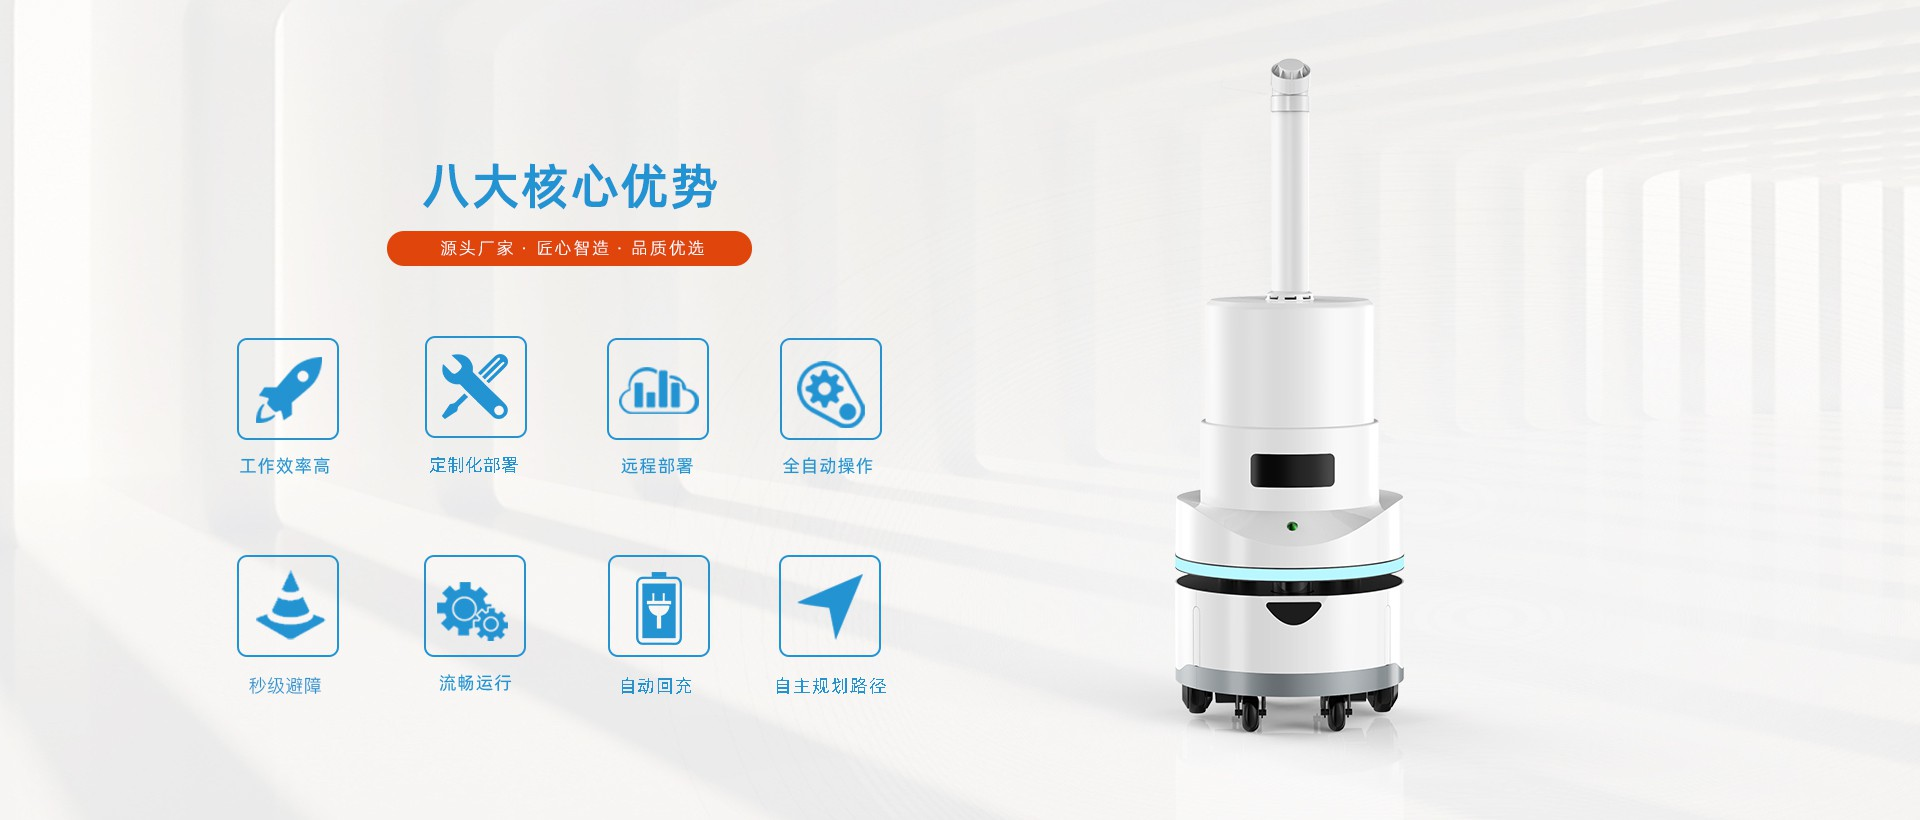
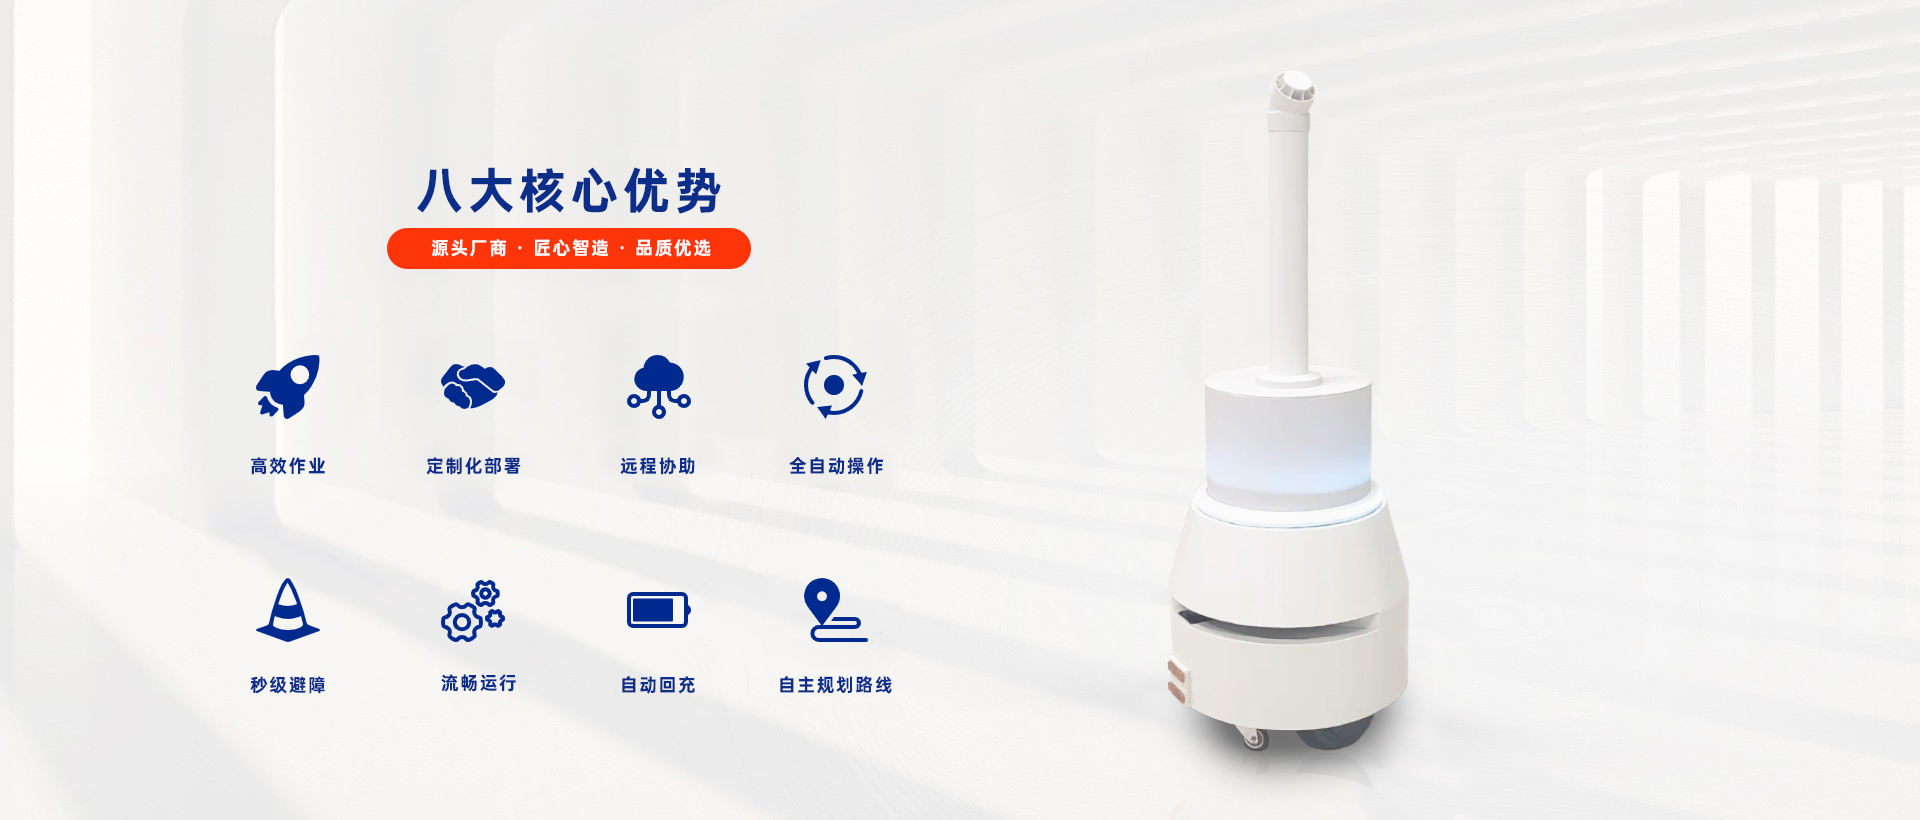
修改消杀机器人内容

diff --git a/product_1.html b/product_1.html
@@ -56,7 +56,7 @@
           <li><a href="/index.html">首页</a></li>
           <li class="menu-has-children"><a href="#about">产品</a>
             <ul>
-              <li><a href="javascript:;">消毒机器人</a></li>
+              <li><a href="javascript:;">消杀机器人</a></li>
             </ul>
           </li>
           <li><a href="/index.html">招商加盟</a></li>
@@ -98,9 +98,9 @@
           <div class="col-lg-5 content"></div>
 
           <div class="col-lg-7 content">
-            <h2>火箭炮—雾化消毒机器人</h2>
+            <h2>雾化消杀机器人</h2>
             <h3>Disinfection robot</h3>
-            <h3>手机部署导航地图，自主移动式多点消毒</h3>
+            <h3>多端部署导航地图，自主移动式多点消毒</h3>
             <ul>
               <li>档雾量调节，3000mL/H大出雾量，360°无死角智能消毒</li>
             </ul>
@@ -148,15 +148,11 @@
               </tr>
               <tr>
                 <td>工作时间</td>
-                <td>满电情况下5~6小时（自主充电，续航不受限）</td>
+                <td>满电情况下>6小时（自主充电，续航不受限）</td>
               </tr>
               <tr>
                 <td>喷雾粒径</td>
                 <td>2~5μm</td>
-              </tr>
-              <tr>
-                <td>喷雾率</td>
-                <td>1200mL/h、2000mL/h、3000mL/h</td>
               </tr>
               <tr>
                 <td>适用介质</td>
@@ -171,16 +167,20 @@
                 <td>13L</td>
               </tr>
               <tr>
-                <td>电池容量</td>
-                <td>37V 20A·H</td>
+                <td>电池规格</td>
+                <td>磷酸铁锂 36v18ah</td>
               </tr>
               <tr>
                 <td>净重</td>
-                <td>44KG</td>
+                <td>30KG</td>
               </tr>
               <tr>
                 <td>整机尺寸</td>
-                <td>450mm*450mm*1360mm</td>
+                <td>450mmx450mmx1200mm</td>
+              </tr>
+              <tr>
+                <td>交互支持</td>
+                <td>手机、平板、PC</td>
               </tr>
             </table>
           </div>

diff --git a/index.html b/index.html
@@ -56,7 +56,7 @@
           <li class="menu-active"><a href="#body">首页</a></li>
           <li class="menu-has-children"><a href="#about">产品</a>
             <ul>
-              <li><a href="/product_1.html">消毒机器人</a></li>
+              <li><a href="/product_1.html">消杀机器人</a></li>
             </ul>
           </li>
           <li><a href="#services">招商加盟</a></li>
